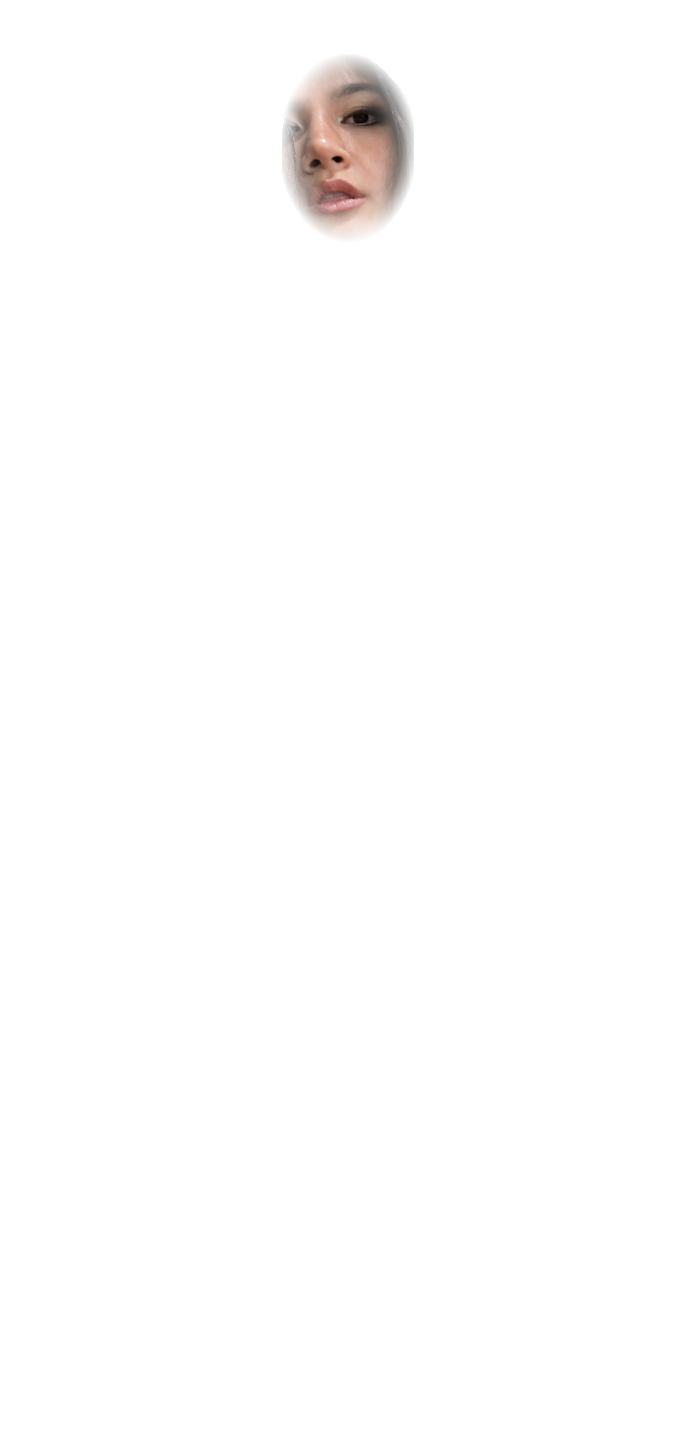
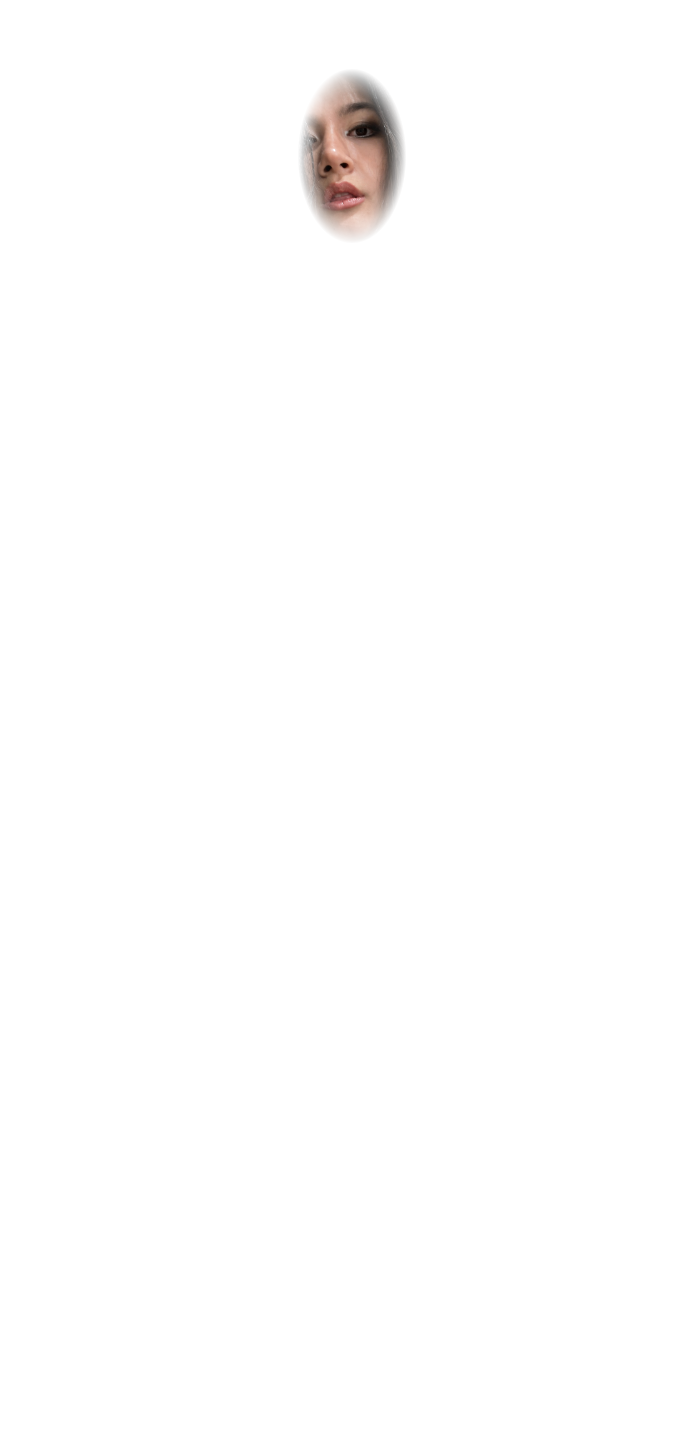
Seat the flame on the torch and stop cropping her face
Two placement bugs, both measured against the silhouette's alpha rather than
eyeballed this time.

The flame was anchored at (0.887, 0.164) of her box, which is 23px left of the
staff head's centre and 27px below its tip, so the fire floated beside the knob
instead of rising from it. The head spans x 606..670 and starts at y 208 of the
691x1432 source, putting the anchor at (0.9204, 0.1453).

The face was drawn from a 310x500 crop into a 132x190 box, stretching her 15%
wider than the portrait. Worse, the feather ellipse was larger than the drawn
image, so alpha ran off the image edge at 119/255 and hard-cut to nothing right
across her cheek. The box now derives its width from the crop aspect, the crop
takes in more hair and neck, and the ellipse is inscribed in it so the vignette
lands on zero by its own boundary: edge alpha is 9/255.

Also drew the flame's white-hot heart tall instead of round, which was giving
the base a glowing-bulb look.

Changed region(s): [[0.3951, 0.0307, 0.6078, 0.1536]]

diff --git a/script.js b/script.js
@@ -70,9 +70,11 @@ function paintedSister() {
   return sisterBox;
 }
 
+// Measured against the silhouette's alpha: the staff head spans x 606..670 and
+// its tip starts at y 208 of the 691x1432 source, so the flame rises from there.
 function torchAnchor() {
   const box = paintedSister();
-  return { x: box.left + box.width * 0.887, y: box.top + box.height * 0.164 };
+  return { x: box.left + box.width * 0.9204, y: box.top + box.height * 0.1453 };
 }
 
 function hitTorch(x, y) {
@@ -1956,16 +1958,21 @@ function drawTorchFlame(ctx, now) {
       ctx.fill();
     });
 
-    // white-hot heart at the wick
-    const heart = ctx.createRadialGradient(0, -h * 0.06, 0, 0, -h * 0.06, h * 0.22);
-    heart.addColorStop(0, `rgba(255, 255, 246, ${0.85 * (0.8 + breath * 0.3)})`);
-    heart.addColorStop(0.55, "rgba(255, 214, 132, 0.35)");
+    // White-hot heart at the wick, drawn tall rather than round so the base
+    // reads as flame instead of a glowing bulb.
+    const heartY = -h * 0.12;
+    const heartR = h * 0.26;
+    ctx.save();
+    ctx.translate(0, heartY);
+    ctx.scale(0.42, 1);
+    const heart = ctx.createRadialGradient(0, 0, 0, 0, 0, heartR);
+    heart.addColorStop(0, `rgba(255, 255, 246, ${0.9 * (0.8 + breath * 0.3)})`);
+    heart.addColorStop(0.42, "rgba(255, 226, 158, 0.42)");
     heart.addColorStop(1, "rgba(255, 150, 50, 0)");
     ctx.globalAlpha = 1;
     ctx.fillStyle = heart;
-    ctx.beginPath();
-    ctx.ellipse(0, -h * 0.06, h * 0.15, h * 0.24, 0, 0, Math.PI * 2);
-    ctx.fill();
+    ctx.fillRect(-heartR, -heartR, heartR * 2, heartR * 2);
+    ctx.restore();
 
     // embers peeling off the crown, looped by phase so they need no state
     for (let i = 0; i < 8; i += 1) {

diff --git a/index.html b/index.html
@@ -7,12 +7,12 @@
     <link rel="preconnect" href="https://fonts.googleapis.com" />
     <link rel="preconnect" href="https://fonts.gstatic.com" crossorigin />
     <link href="https://fonts.googleapis.com/css2?family=IM+Fell+English&display=swap" rel="stylesheet" />
-    <link rel="stylesheet" href="styles.css?v=33" />
+    <link rel="stylesheet" href="styles.css?v=35" />
   </head>
   <body>
     <figure class="sister-stage">
-      <img class="sister" src="assets/sister-silhouette.png?v=33" alt="" />
-      <img class="sister-face" src="assets/sister-face.png?v=33" alt="" />
+      <img class="sister" src="assets/sister-silhouette.png?v=35" alt="" />
+      <img class="sister-face" src="assets/sister-face.png?v=35" alt="" />
       <button class="torch" type="button" aria-label="Torch" aria-pressed="false"></button>
     </figure>
     <canvas id="field" aria-hidden="true"></canvas>
@@ -22,6 +22,6 @@
     </h1>
     <canvas id="illumination" aria-hidden="true"></canvas>
     <canvas id="ember" aria-hidden="true"></canvas>
-    <script src="script.js?v=33"></script>
+    <script src="script.js?v=35"></script>
   </body>
 </html>
